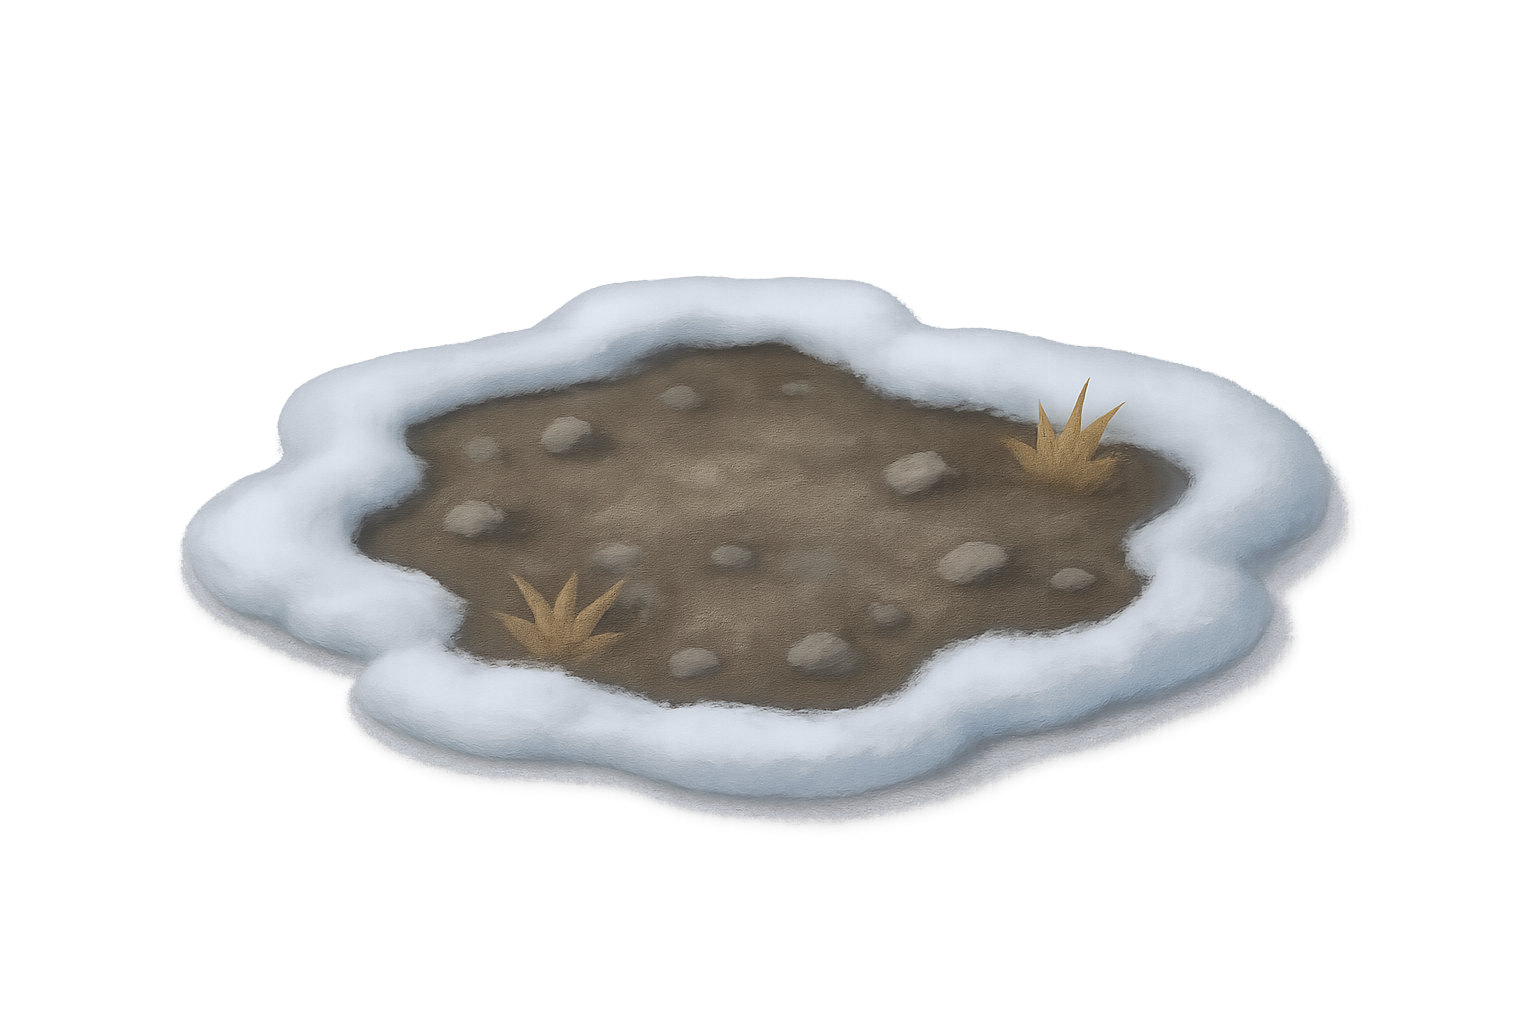
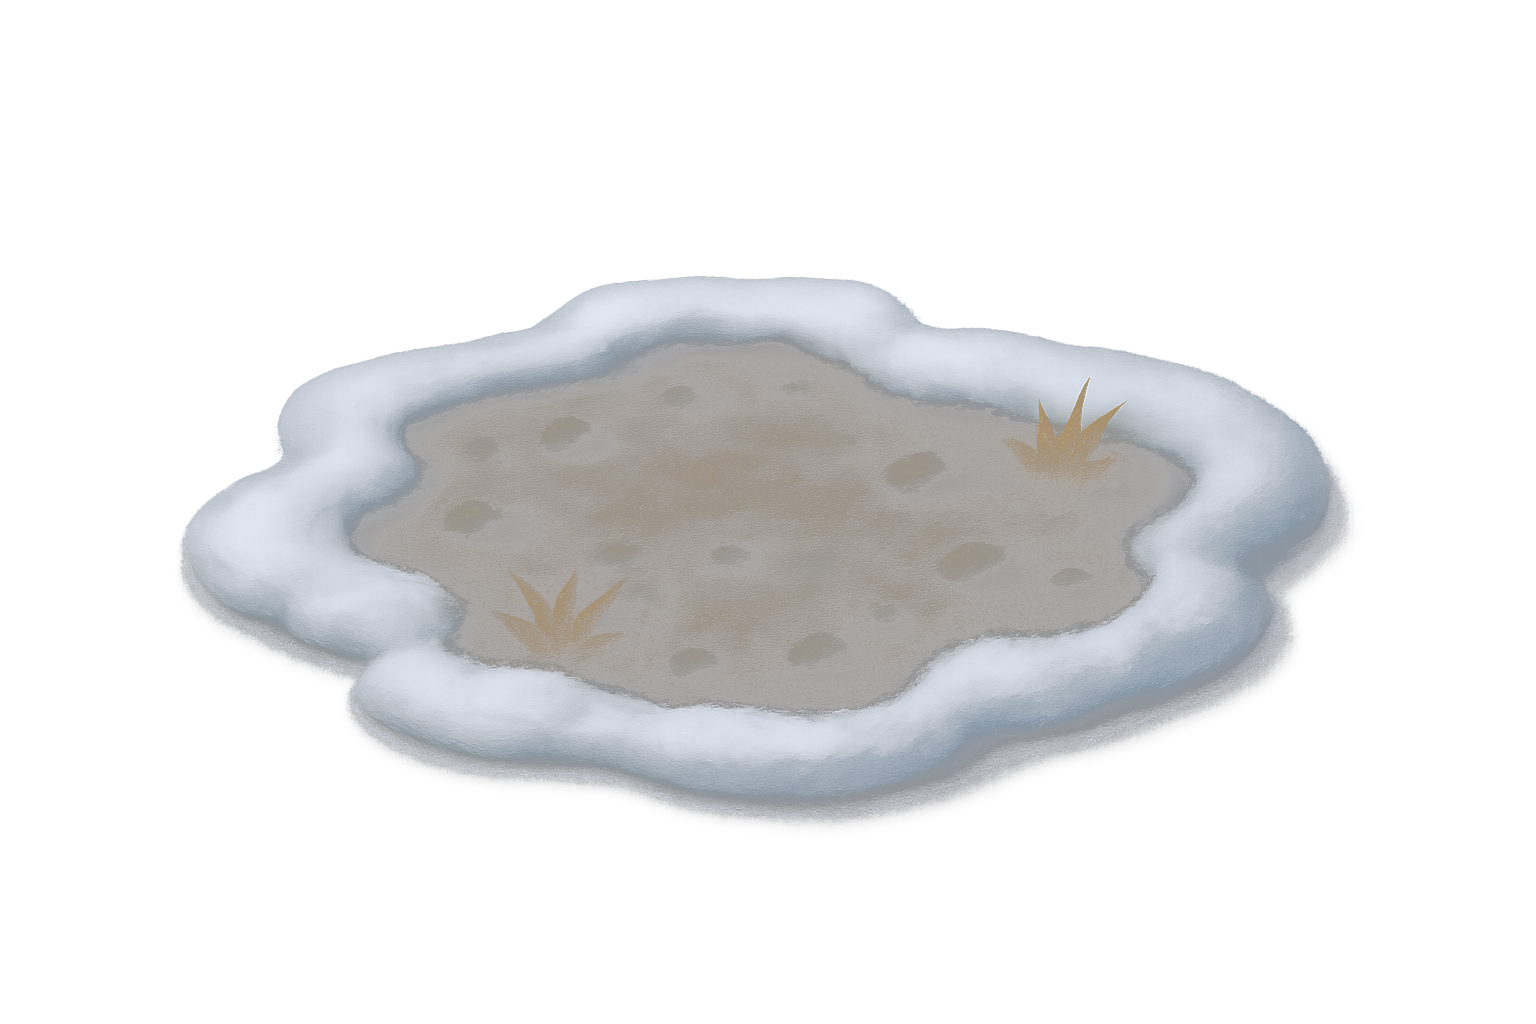
Polana, runda 8: niepełna (jeden wzorzec); doprecyzowany opis wzorców dla etapu zrzutów
Claude-Session: https://claude.ai/code/session_01Qu47Qn6gy3U54smkJJnCXL

Changed region(s): [[0.2188, 0.3125, 0.7812, 0.7188], [0.6875, 0.6562, 0.75, 0.7188], [0.625, 0.7188, 0.6562, 0.75]]

diff --git a/tools/teren_efekty.py b/tools/teren_efekty.py
@@ -32,7 +32,7 @@ def _obraz(tab: np.ndarray) -> Image.Image:
     return Image.fromarray(tab.clip(0, 255).astype(np.uint8), 'RGB')
 
 
-def zaspy(warstwa: Image.Image, kafel: int, ziarno: int) -> Image.Image:
+def zaspy(warstwa: Image.Image, kafel: int, ziarno: int, zmienne: bool = False) -> Image.Image:
     """Śnieg z RZEŹBĄ: zaspy oświetlone z lewej góry, cienie niebieskie, iskry.
 
     Płaska biel wygląda jak mgła, bo nie ma w niej nic, co mówi „powierzchnia".
@@ -46,10 +46,21 @@ def zaspy(warstwa: Image.Image, kafel: int, ziarno: int) -> Image.Image:
     # Zaspy mają grzbiet: wartość bezwzględna szumu daje ostre krawędzie
     # (jak wydmy), a nie łagodne pagórki, które z daleka rozmywają się w mgłę.
     h = 1 - np.abs(h)
+    if zmienne:
+        # Twierdza, runda 4 („jednolita, płaska biała tekstura"): fałdy nie
+        # wszędzie jednakowe — duże łany gładkiego śniegu obok pól zasp, a pod
+        # nimi wały w skali kilku pól.
+        duze = szum(W, H, max(2, int(kafel * 4.5)), ziarno + 5)
+        h = h * (0.25 + 0.75 * np.clip(duze * 1.4 + 0.5, 0, 1)) + szum(W, H, max(2, int(kafel * 2.6)), ziarno + 6) * 0.9
     gy, gx = np.gradient(h)
     swiatlo = -(gx + gy) * kafel * 0.9
     swiatlo = np.clip(swiatlo, -1, 1)[..., None]
     tab = _tab(warstwa)
+    if zmienne:
+        # Odcień: niecki sinoniebieskie, wzniesienia cieplejsze, jak śnieg w słońcu.
+        ton = szum(W, H, max(2, int(kafel * 3.4)), ziarno + 7)[..., None]
+        tab = np.where(ton < 0, tab * (1 + ton * 0.16) + np.array([60, 95, 160], dtype=np.float32) * (-ton) * 0.14,
+                       tab + (np.array([255, 250, 238], dtype=np.float32) - tab) * ton * 0.35)
     jasne = tab + (255 - tab) * np.clip(swiatlo, 0, 1) * 0.7
     cien = np.array([95, 135, 205], dtype=np.float32)
     ciemne = tab * (1 + np.clip(swiatlo, -1, 0) * 0.5) + cien * (-np.clip(swiatlo, -1, 0)) * 0.45

diff --git a/tools/mapy/twierdza.py b/tools/mapy/twierdza.py
@@ -417,7 +417,7 @@ WODA_ANIMOWANA = False
 #: droga z brzegiem, las w zwartych masach, gęsty pierwszy ekran.
 #: Runda 3: bez efektu `lod` — jego rysy na turkusowym lodzie (`lod-2`) znów
 #: czytały się jak „błyskawice"; tekstura ma własne, delikatne pęknięcia.
-EFEKTY = ['zaspy', 'obwodka_drogi', 'relief_sniezny', 'bez_placow', 'lod_tafla']
+EFEKTY = ['zaspy', 'zaspy_zmienne', 'obwodka_drogi', 'relief_sniezny', 'bez_placow', 'lod_tafla']
 TEKSTURY = {'woda': ['lod-2', 'lod', 'snieg'], 'trawa': ['snieg-2', 'snieg'], 'las': ['snieg']}
 SKUP_LAS = True
 #: Runda 4 (HotA): „pole śniegu to jednolita płaska biała tekstura — bez
@@ -454,9 +454,10 @@ NAKLEJKI = [
     (['swierczek-sniezny-1', 'swierczek-sniezny-2'], 's', 0.05),
     (['swierczek-sniezny-1'], '.', 0.03),
     # Runda 4 (HotA): „pole śniegu to jednolita, płaska biała tekstura — bez
-    # uskoków, skał i zmian odcienia". Łaty odsłoniętej ziemi, płyty skał spod
-    # śniegu, suche trawy i nawisy z pasem cienia (PROMPTY-PLANSZE §15b).
-    (['lata-ziemi-snieg'], 's.', 0.035),
+    # uskoków, skał i zmian odcienia". Płyty skał spod śniegu, suche trawy
+    # i nawisy z pasem cienia (PROMPTY-PLANSZE §15b).
+    # (Łaty odsłoniętej ziemi — `lata-ziemi-snieg` — odrzucone: w kadrze czytały
+    # się jak szare przeręble, nie jak zmiana odcienia gruntu.)
     (['skalki-snieg'], 's', 0.03),
     (['trawy-snieg'], 's.', 0.06),
     (['nawis-sniezny'], 's', 0.04),

diff --git a/tools/render_mapa.py b/tools/render_mapa.py
@@ -295,7 +295,7 @@ def klatka() -> tuple[Image.Image, Image.Image]:
         # falowałyby w tym samym rytmie i widać by było jeden wzór.
         m = maska(pola(znaki), KAFEL, wtapianie, poszarpanie, ZIARNO + n)
         if nazwa == 'snieg' and 'zaspy' in EFEKTY:
-            warstwa = teren_efekty.zaspy(warstwa, KAFEL, ZIARNO + 700)
+            warstwa = teren_efekty.zaspy(warstwa, KAFEL, ZIARNO + 700, zmienne='zaspy_zmienne' in EFEKTY)
         if nazwa == 'skaly' and ('relief' in EFEKTY or 'relief_sniezny' in EFEKTY):
             warstwa = teren_efekty.relief(warstwa, m, KAFEL, ZIARNO + 730, 'relief_sniezny' in EFEKTY)
         if nazwa == 'woda' and 'lod' in EFEKTY:

diff --git a/STAN.md b/STAN.md
@@ -407,7 +407,11 @@ przepuszcza). Do plansz trzy kadry wyglądające jak ZAPROJEKTOWANA mapa kampani
 (gracz odrzucił zrzuty z generatora — chaotyczne, turniejowe): rzeka
 z zrzutu trawy w skali 32 px na pole oraz dwa oficjalne zrzuty moda HotA
 (zamek z pasmami gór i wodospadami, wybrzeże). Pliki i URL-e: tabela
-„Zestaw porównawczy" w `tools/reference/homm3/ZRODLA.md`. Runda to
+„Zestaw porównawczy" w `tools/reference/homm3/ZRODLA.md`.
+**UWAGA dla etapu zrzutów:** `ref-trawa.png`, `ref-bagno.png` i
+`ref-snieg.png` to nazwy historyczne — ich TREŚĆ to dziś te trzy dobre
+kadry (rzeka, zamek HotA, wybrzeże HotA; to samo co `wzor-1/2/3-*.png`).
+Porównanie robi się ze WSZYSTKIMI trzema, żadnego nie pomija się. Runda to
 trzy ślepe zestawienia (nasz zrzut przeciw każdemu wzorcowi), trzech
 krytyków ze świeżym kontekstem, wygrana przy 2 z 3.
 
